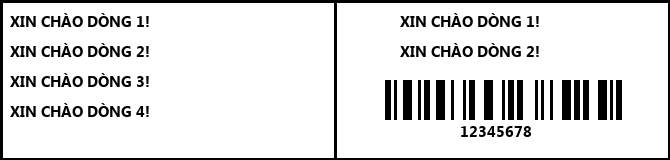
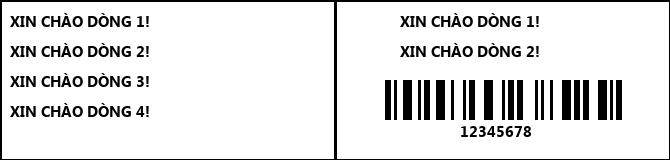
edit readme

Changed region(s): [[0.0, 0.9688, 1.0, 1.0], [0.0, 0.0, 1.0, 0.0312]]

diff --git a/printer_service.py b/printer_service.py
@@ -21,13 +21,13 @@ class printer():
         self.shape = [(0,0),(670,0),(670,160),(0,160),(0,0)]
         self.hDC= win32ui.CreateDC()
         self.hDC.CreatePrinterDC(self.printer_name)
-        
+    
     def generate_img(self,img_name,barcode_content="12345678"):
         # INIT PILLOW IMAGE
         img = Image.new('RGB',(self.IMAGE_WIDTH,self.IMAGE_HEIGHT),color = 'white')
         d = ImageDraw.Draw(img)
         #DRAW SHAPE
-        d.line(self.shape,fill = "black",width=5)
+        d.line(self.shape,fill = "black",width=3)
         d.line([(self.IMAGE_WIDTH/2,0),(self.IMAGE_WIDTH/2,self.IMAGE_HEIGHT)],fill = "black",width=3)
         # BARCODE
         barcode_image = code128.image(barcode_content, height=40)

diff --git a/README.md b/README.md
@@ -83,8 +83,8 @@ Example
 GET
 
 	curl -X GET \
-	  -H "X-Parse-Application-Id: SCWASRTWK1Y9AVMP1KFC" \
-	https://vset.vvs.vn/parse/classes/PrintJob
+	-H "X-Parse-Application-Id: SCWASRTWK1Y9AVMP1KFC" \
+	https://gold-pos.vvs.vn/parse/classes/PrintJob
 
 DELETE
 
